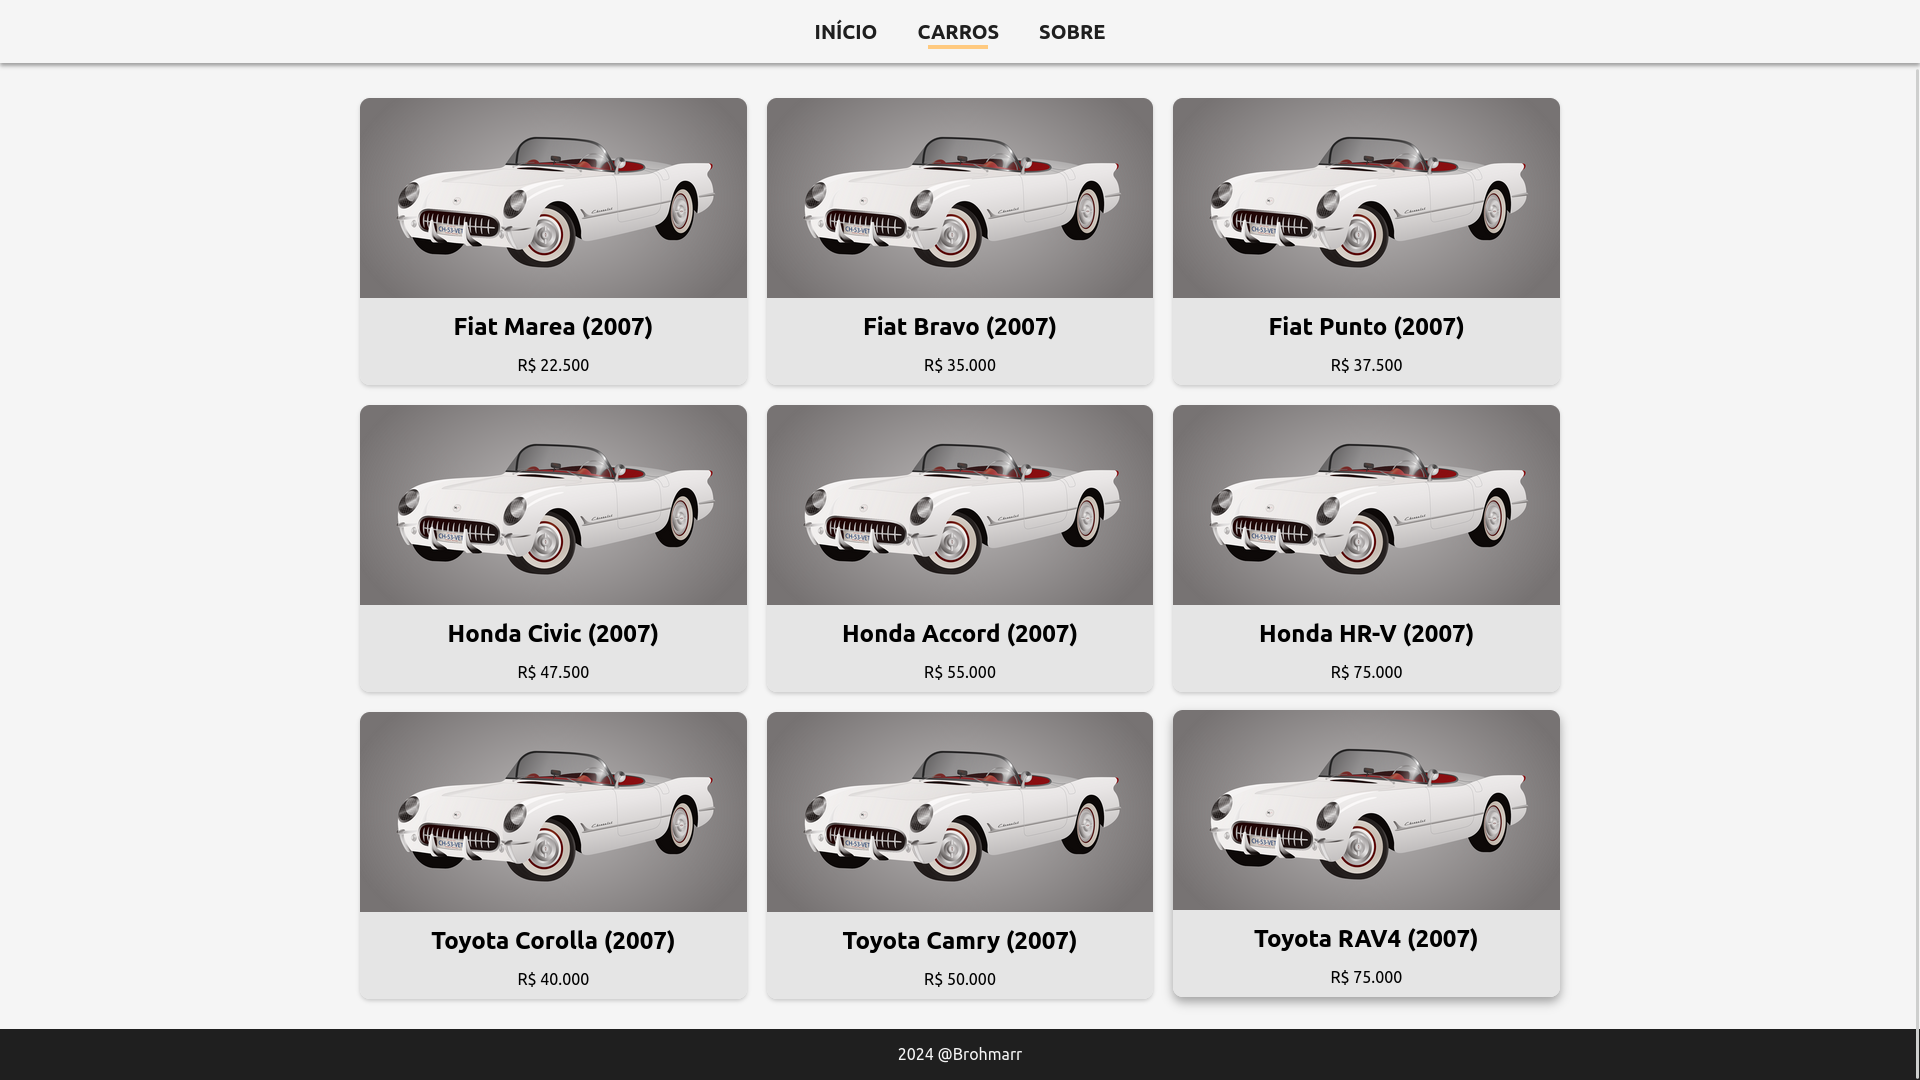
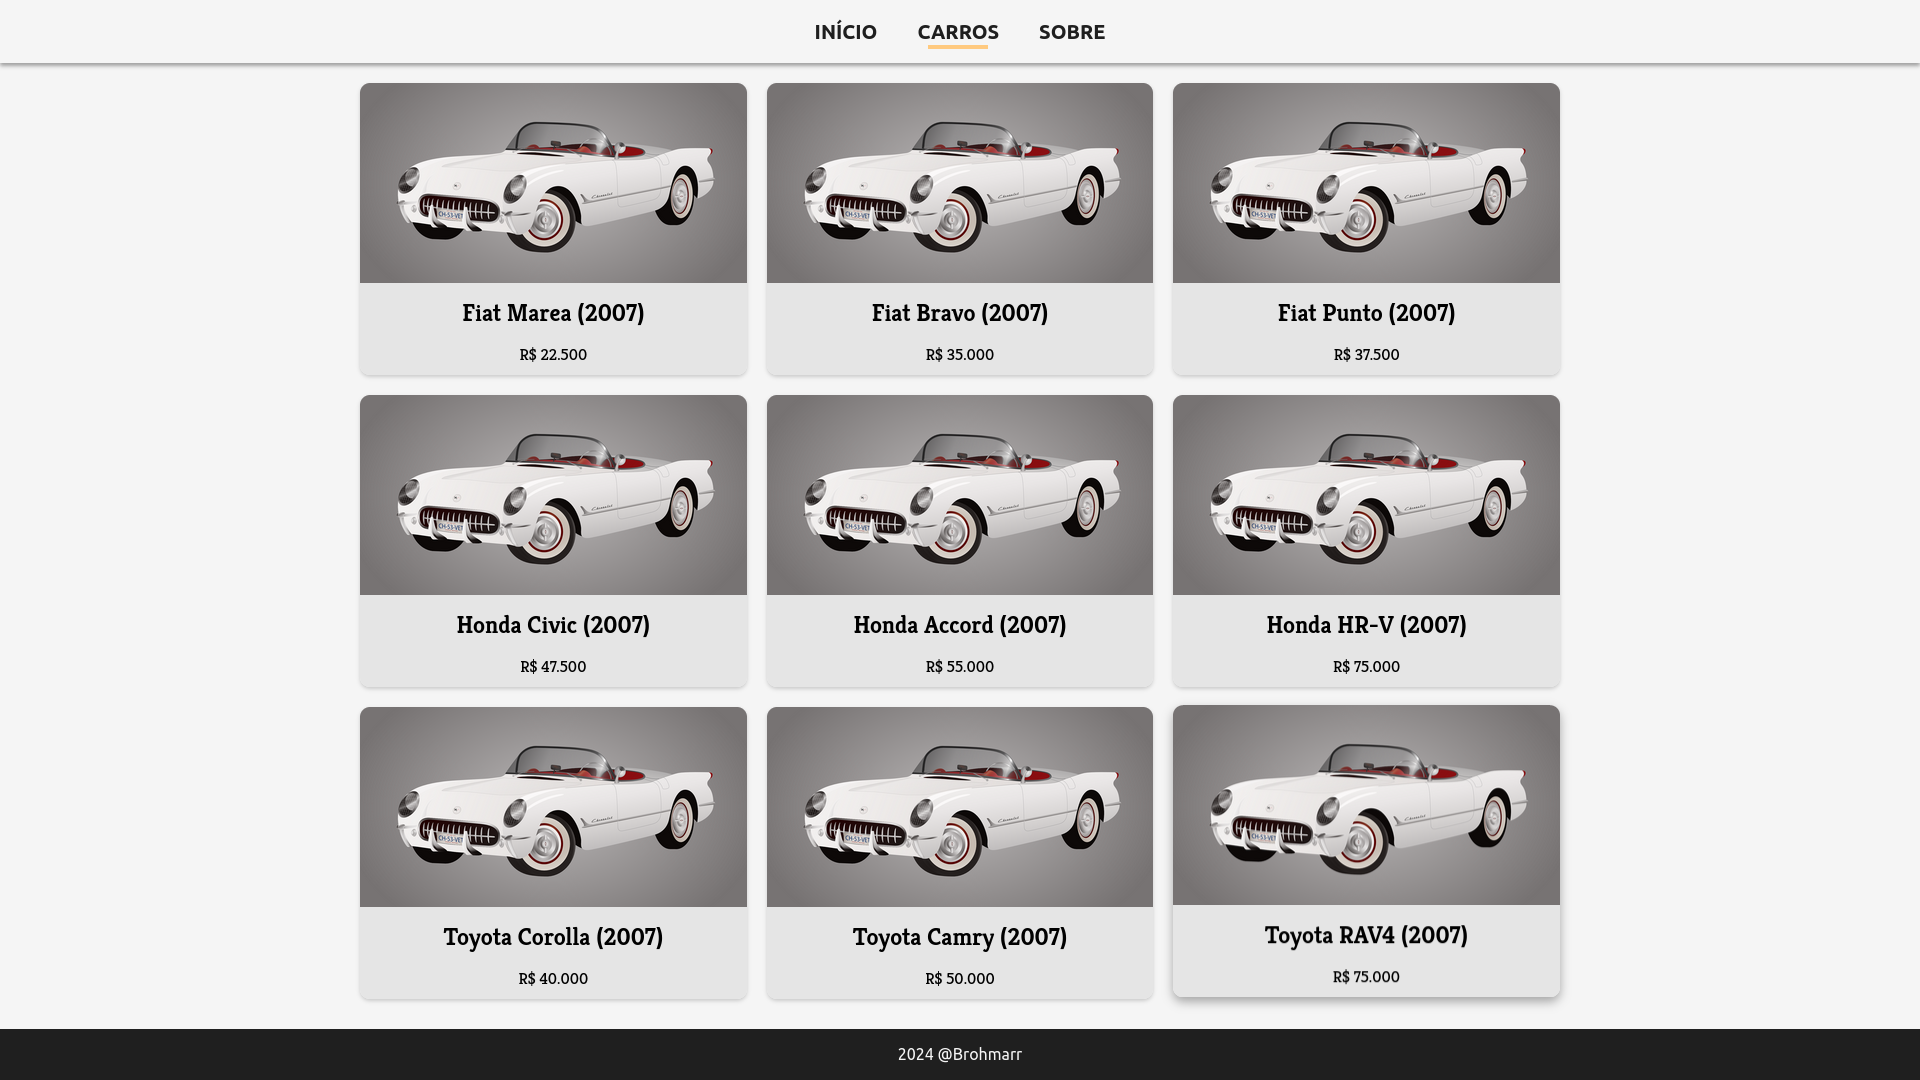
Update website fonts and README.md screenshots

Changed region(s): [[0.1875, 0.0611, 0.8125, 0.9167]]

diff --git a/app/templates/base.html b/app/templates/base.html
@@ -8,12 +8,13 @@
   <title>{% block title %}Django Car Store{% endblock %}</title>
   <link rel="preconnect" href="https://fonts.googleapis.com">
   <link rel="preconnect" href="https://fonts.gstatic.com" crossorigin>
-  <link href="https://fonts.googleapis.com/css2?family=Ubuntu:ital,wght@0,300;0,400;0,500;0,700;1,300;1,400;1,500;1,700&display=swap" rel="stylesheet">
+  <link href="https://fonts.googleapis.com/css2?family=Kreon:wght@300..700&family=Ubuntu:ital,wght@0,300;0,400;0,500;0,700;1,300;1,400;1,500;1,700&display=swap" rel="stylesheet">
+  <link href="https://fonts.googleapis.com/css2?family=Kreon:wght@300..700&display=swap" rel="stylesheet">
   <style>
     html, body {
         height: 100%;
         margin: 0;
-        font-family: 'Ubuntu', sans-serif;
+        font-family: "Kreon", serif;
         background-color: #f5f5f5;
     }
 
@@ -29,6 +30,7 @@
 
     header {
         background-color: #f5f5f5;
+        font-family: "Ubuntu", sans-serif;
         color: #1f1f1f;
         padding: 20px 0;
         position: sticky;
@@ -98,6 +100,7 @@
 
     footer {
         background-color: #1f1f1f;
+        font-family: "Ubuntu", sans-serif;
         color: #f5f5f5;
         padding: 0px;
         text-align: center;
